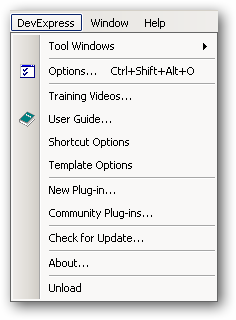
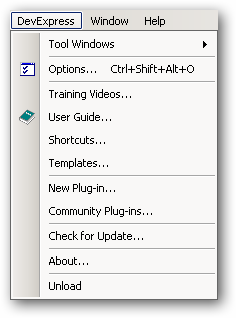
DX_Direct options: Changed menu names to include S and T accelerators.

diff --git a/DX_DirectOptions/DX_DirectOptions/PlugIn1.cs b/DX_DirectOptions/DX_DirectOptions/PlugIn1.cs
@@ -41,7 +41,7 @@ namespace DX_DirectOptions
             DevExpress.CodeRush.Core.Action ShowTemplateOptions = new DevExpress.CodeRush.Core.Action(components);
             ((System.ComponentModel.ISupportInitialize)(ShowTemplateOptions)).BeginInit();
             ShowTemplateOptions.ActionName = "ShowTemplateOptions";
-            ShowTemplateOptions.ButtonText = "Template Options"; // Used if button is placed on a menu.
+            ShowTemplateOptions.ButtonText = "&Templates..."; // Used if button is placed on a menu.
             ShowTemplateOptions.CommonMenu = DevExpress.CodeRush.Menus.VsCommonBar.DevExpress;
             ShowTemplateOptions.Position = LastPosition;
             ShowTemplateOptions.RegisterInCR = true;
@@ -57,7 +57,7 @@ namespace DX_DirectOptions
             DevExpress.CodeRush.Core.Action ShowShortcutOptions = new DevExpress.CodeRush.Core.Action(components);
             ((System.ComponentModel.ISupportInitialize)(ShowShortcutOptions)).BeginInit();
             ShowShortcutOptions.ActionName = "ShowShortcutOptions";
-            ShowShortcutOptions.ButtonText = "Shortcut Options"; // Used if button is placed on a menu.
+            ShowShortcutOptions.ButtonText = "&Shortcuts..."; // Used if button is placed on a menu.
             ShowShortcutOptions.CommonMenu = DevExpress.CodeRush.Menus.VsCommonBar.DevExpress;
             ShowShortcutOptions.Position = LastPosition;
             ShowShortcutOptions.RegisterInCR = true;
